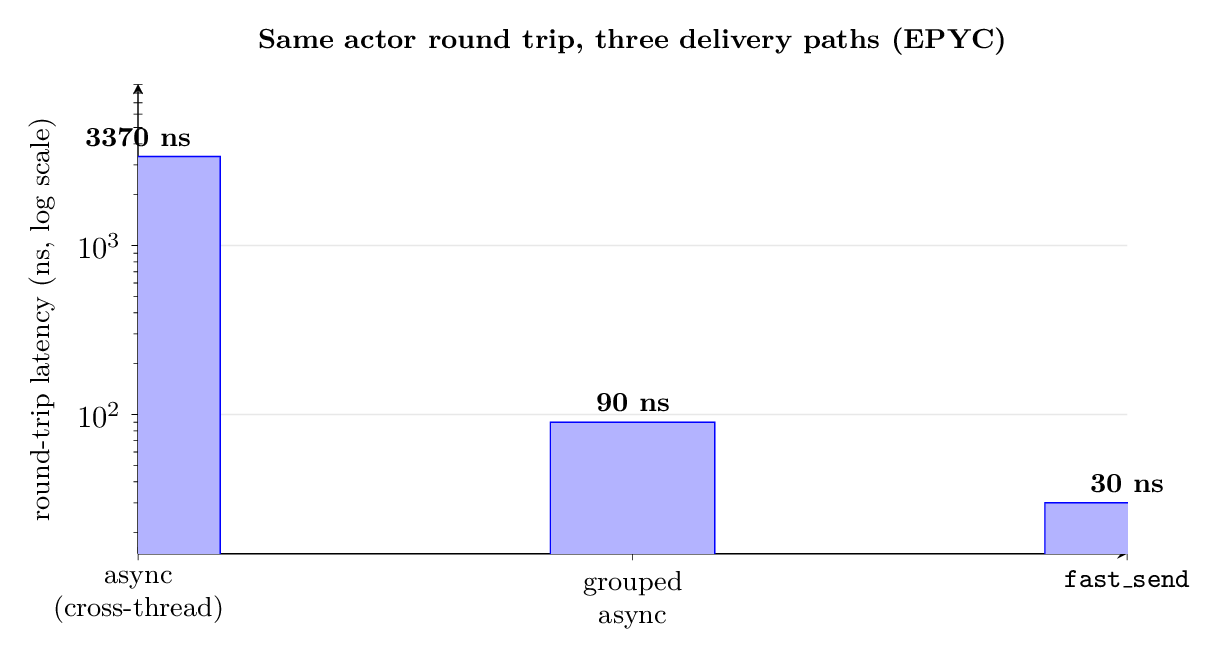
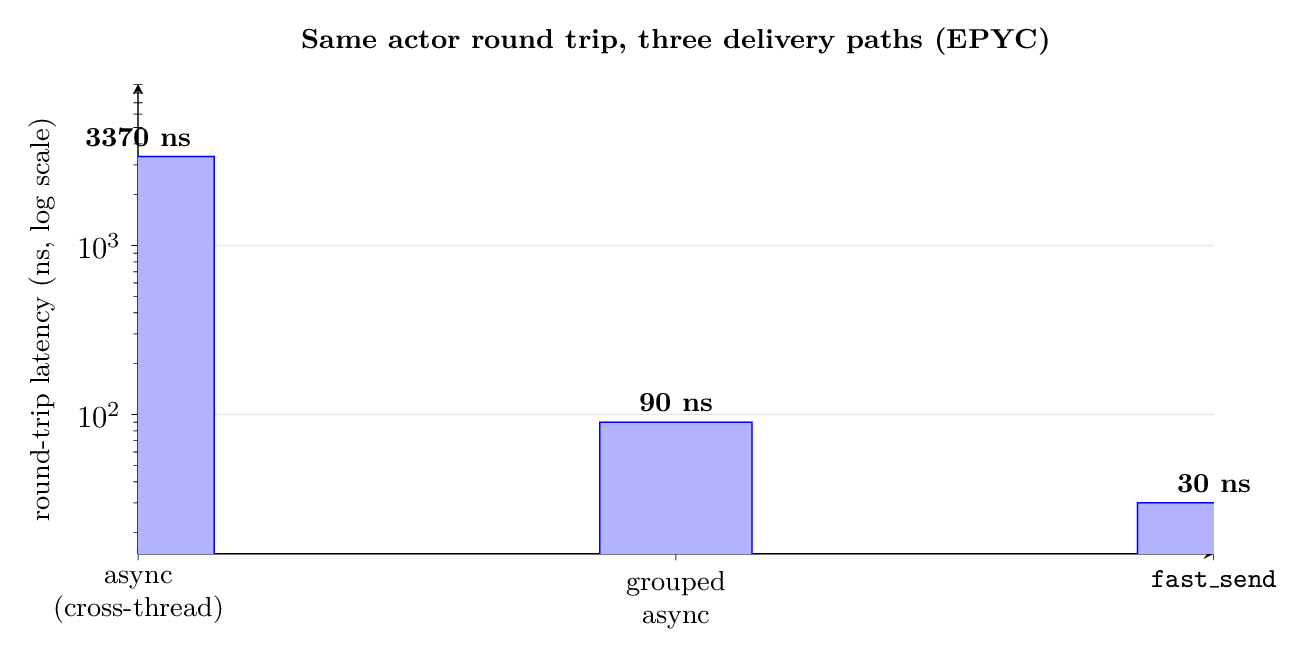
docs(readme): fix bar-label overlap; dark-mode the shadow slippage chart
- Regenerate the fast_send latency bar chart with more left margin so the
  "3370 ns" label no longer overlaps the y-axis.
- Add a dark-mode variant of the Shadow-POV slippage chart and serve it via
  <picture> + prefers-color-scheme (light original for light mode), so it no
  longer shows a white background on dark-mode GitHub.

diff --git a/README.md b/README.md
@@ -784,7 +784,13 @@ So shadow execution pays adverse selection in full. What it does is reach the sa
 
 The same delay applied to all three paths at once — the outbound order, the outbound cancel, and the inbound market-data feed.
 
-![Relative slippage against round-trip delay](tech_reports/sim/latency_slippage.png)
+<p align="center">
+  <picture>
+    <source media="(prefers-color-scheme: dark)" srcset="tech_reports/sim/latency_slippage_dark.png">
+    <img src="tech_reports/sim/latency_slippage.png" width="660"
+         alt="Relative slippage against round-trip delay: Shadow-PPOV (passive) vs Aggressive POV">
+  </picture>
+</p>
 
 | Delay | Passive | Aggressive |
 |---:|---:|---:|
